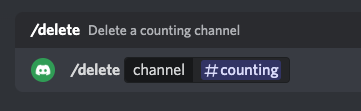
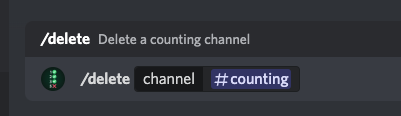
updated docs

Changed region(s): [[0.0609, 0.5135, 0.8227, 0.8108], [0.0609, 0.2162, 0.6704, 0.4054]]

diff --git a/README.md b/README.md
@@ -1,32 +1,60 @@
 # CountingBot
 Developed by [Landon Boles](https://github.com/TheLDB)
 
-** Still in development, working out some bugs, fixing/improving server speeds **
-** Invite not available yet **
-
-![Counting Bot](public/counting.png)
+![overview](./public/overview.png)
 
 ## What is this bot?
-Counting bot allows you to register (and delete) specific channels, and count with your community.
-
-1, 2, 3, 4, 5, 6.... you get the jist!
+Counting bot allows you to count with your community in public channels on Discord!
 
 ## How does it work?
 
-### Registering/Deleting Channels
-If you're an Administrator, you have the abillity to register and delete *multiple* channels!
-
-![Register Screenshot](public/register.png)
-
-To register a new channel, simply run /register [channelName]
-
-![Delete Screenshot](public/delete.png)
-
-To delete a channel, just use /delete [channelname]
-
-![Both Actions Done](public/both_done.png)
-
 ### Counting
-Well... just count, be sure not to skip any numbers though!
+To continue the count in a channel, you have two options!
 
-![Counting Bot](public/counting.png)
+Either you can use standard numbers, 1, 2, 3, 16, 25, etc...
+
+Or you can use Math expressions!
+
+If the number is 3, send 2+2, it equals 4 so you'll move on. You can also use more advanced equations, that result in decimals, however your answer from the equation needs to be within 1/100 of the correct answer!
+
+For example, if the next number is 66, and you send ``8.1240^2``, it'll work since ``65.999376`` is within 1/100 of 66.
+
+![math](./public/math.png)
+### Registering Channels
+This bot has support for multiple channels, only Administrators can register or delete channels
+
+To register a channel for counting, run ``/register {channel}``
+
+If you'd like to set a custom increment while registering, you can also use the optional increment option when using ``/register`` - Don't worry though, you can always change this later
+
+![register](./public/register.png)
+
+### Setting a custom increment
+If you'd like to change the increment number for counting, to 5 for example, Administrators can run the ``/updateincrement {channel} {increment}`` command. 
+
+You can set the increment to whole numbers, negative numbers, or decimals to the hundredth.
+
+![customincrement](./public/updateincrement.png)
+### Viewing the leaderboard
+This counting bot has a leaderboard! You can either view a leaderboard for a specific counting channel, or the entire server. 
+
+To view this, users can run ``/leaderboard {channel}``, but keep in mind, the channel argument is optional. If you'd like full server stats, you can leave that argument blank
+
+![leaderboard](./public/leaderboard.png)
+### Viewing a users score
+If you'd like to get yours, or someone elses counting score, users can run the ``/score {user}`` command.
+
+The user argument is optional, if you'd like your score, you can leave it blank.
+
+![score](./public/score.png)
+### Deleting/Deregestering a channel
+If you'd like to stop counting in a channel, Administrators can run the ``/delete {channel}`` command. 
+
+Don't worry if you accidentally deregistered a channel though, if you re-register, you'll keep your history and your counting state.
+
+![delete](./public/delete.png)
+## How does score work?
+All users start off with ``0`` score. 
+If you contribute to a counting channel and the number was correct, you'll gain one point. 
+
+However, if you contribute and it was incorrect, causing the channel to restart, you'll lose 5 points, so be careful!
